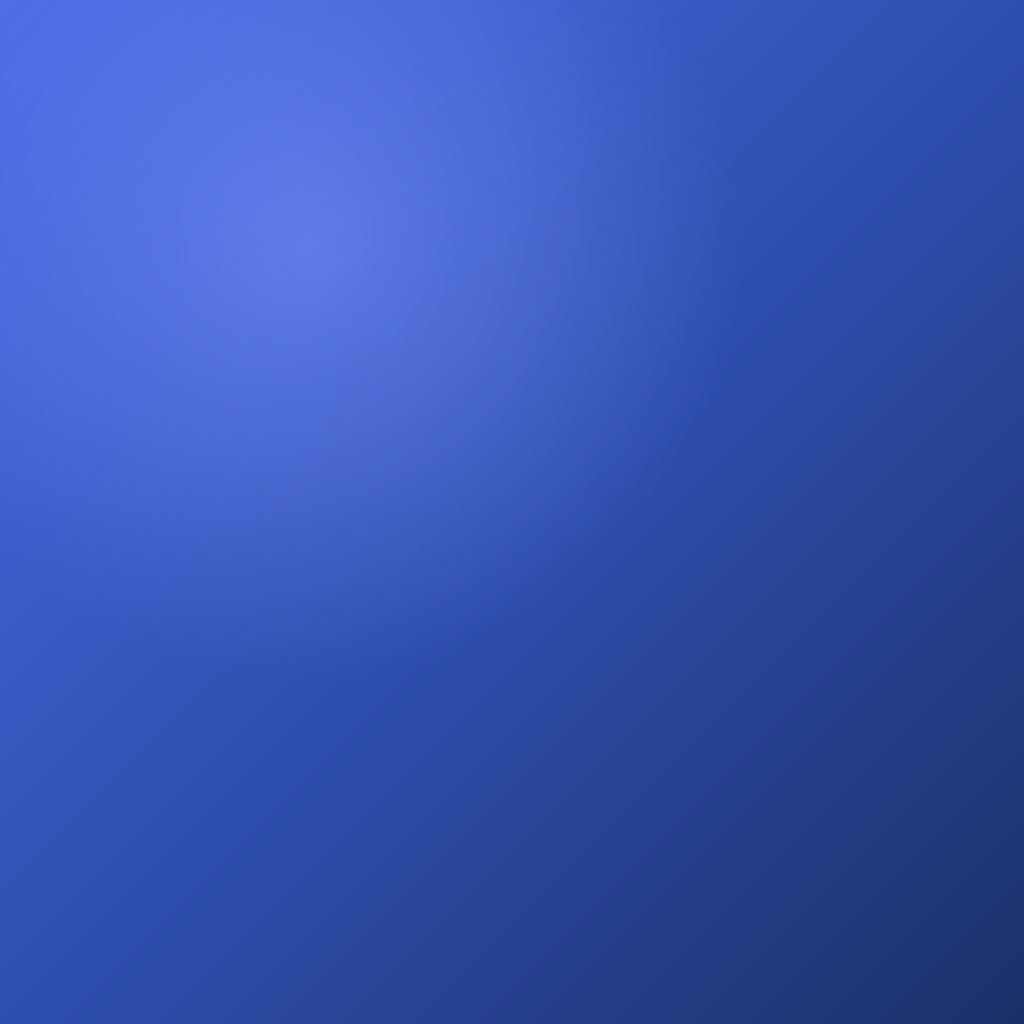
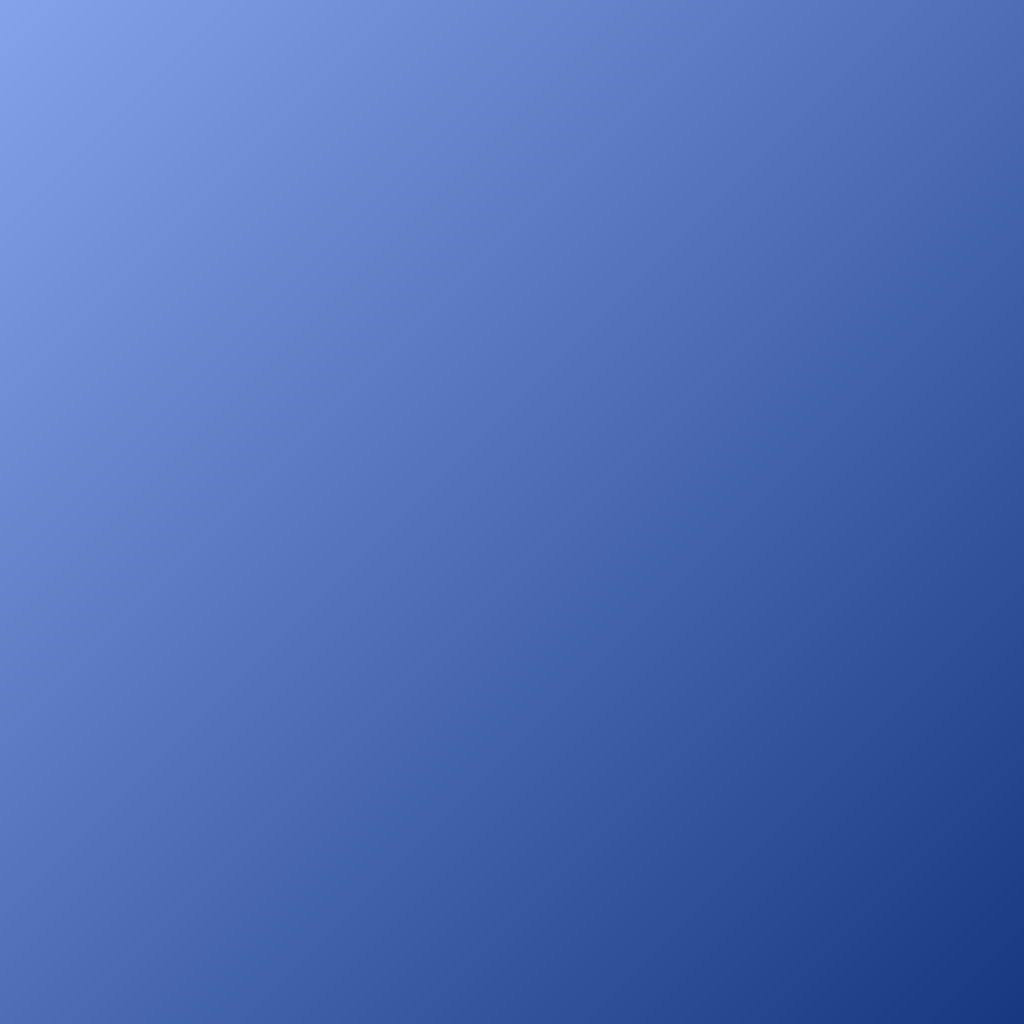
Channels: redesigned list rows; play voice posts via expo-av (fix silent audio)

diff --git a/src/screens/community/CommunityHomeScreen.tsx b/src/screens/community/CommunityHomeScreen.tsx
@@ -382,19 +382,38 @@ function ChannelRow({ channel, navigation }: { channel: Channel; navigation: Nav
   const joined = isJoined(channel.id);
   const count = unread(channel.id);
   const last = postsByChannel(channel.id)[0];
+  const subs = channel.baseSubscribers + (joined ? 1 : 0);
+  const subsLabel = `${String(subs).replace(/\B(?=(\d{3})+(?!\d))/g, ' ')} ${t('subscribers')}`;
+  const closed = channel.access === 'request';
+  // Second line: latest post for subscribers, otherwise the channel bio.
+  const secondary = joined && last ? last.title : (channel.bio?.trim() || '');
   return (
     <Pressable onPress={() => navigation.navigate('ServerChannel', { channelId: channel.id })}
-      style={{ flexDirection: 'row', alignItems: 'center', gap: 12, backgroundColor: T.cardBg, borderRadius: 16, padding: 12, marginBottom: 10, borderWidth: 0.5, borderColor: T.cardBorder }}>
-      <Image source={{ uri: channel.avatar }} style={{ width: 54, height: 54, borderRadius: 16, backgroundColor: T.brandTinted }} contentFit="cover" cachePolicy="memory-disk" />
-      <View style={{ flex: 1 }}>
+      style={({ pressed }) => ({ flexDirection: 'row', alignItems: 'center', gap: 14, backgroundColor: T.cardBg, borderRadius: 18, padding: 12, marginBottom: 10, borderWidth: 0.5, borderColor: T.cardBorder, shadowColor: '#000', shadowOpacity: 0.05, shadowRadius: 6, shadowOffset: { width: 0, height: 2 }, opacity: pressed ? 0.85 : 1 })}>
+      <View>
+        <Image source={{ uri: channel.avatar }} style={{ width: 56, height: 56, borderRadius: 18, backgroundColor: T.brandTinted }} contentFit="cover" cachePolicy="memory-disk" />
+        {closed ? (
+          <View style={{ position: 'absolute', right: -3, bottom: -3, width: 22, height: 22, borderRadius: 11, backgroundColor: T.cardBg, alignItems: 'center', justifyContent: 'center' }}>
+            <View style={{ width: 18, height: 18, borderRadius: 9, backgroundColor: T.labelTertiary, alignItems: 'center', justifyContent: 'center' }}>
+              <SF name="lock.fill" size={9} color="#fff" />
+            </View>
+          </View>
+        ) : null}
+      </View>
+      <View style={{ flex: 1, gap: 2 }}>
         <View style={{ flexDirection: 'row', alignItems: 'center', gap: 6 }}>
-          <Text style={[ty.headline, { color: T.label }]} numberOfLines={1}>{channel.name}</Text>
+          <Text style={[ty.headline, { color: T.label, flexShrink: 1 }]} numberOfLines={1}>{channel.name}</Text>
           {channel.verified ? <SF name="checkmark.seal.fill" size={14} color={T.sky} /> : null}
-          {channel.access === 'request' ? <SF name="lock.fill" size={11} color={T.labelTertiary} /> : null}
         </View>
-        <Text style={[ty.caption1, { color: T.labelSecondary, marginTop: 2 }]} numberOfLines={1}>
-          {joined && last ? last.title : channel.access === 'request' ? t('closed_channel') : `@${channel.handle}`}
-        </Text>
+        {secondary ? (
+          <Text style={[ty.subhead, { color: T.labelSecondary }]} numberOfLines={1}>{secondary}</Text>
+        ) : null}
+        <View style={{ flexDirection: 'row', alignItems: 'center', gap: 5, marginTop: 1 }}>
+          <SF name="person.2.fill" size={10} color={T.labelTertiary} />
+          <Text style={[ty.caption2, { color: T.labelTertiary }]} numberOfLines={1}>
+            {subsLabel}{closed ? ` · ${tr('Закрытый')}` : ''}
+          </Text>
+        </View>
       </View>
       {joined && count > 0 ? (
         <View style={{ minWidth: 22, height: 22, borderRadius: 11, paddingHorizontal: 6, backgroundColor: T.brand, alignItems: 'center', justifyContent: 'center' }}>
@@ -403,7 +422,9 @@ function ChannelRow({ channel, navigation }: { channel: Channel; navigation: Nav
       ) : joined ? (
         <SF name="checkmark.circle.fill" size={20} color={T.brand} />
       ) : (
-        <SF name="chevron.forward" size={14} color={T.labelTertiary} />
+        <View style={{ paddingVertical: 6, paddingHorizontal: 14, borderRadius: 999, backgroundColor: T.brandTinted }}>
+          <Text style={[ty.caption2Em, { color: T.brand }]}>{closed ? tr('Запрос') : tr('Открыть')}</Text>
+        </View>
       )}
     </Pressable>
   );

diff --git a/src/screens/community/ServerChannelScreen.tsx b/src/screens/community/ServerChannelScreen.tsx
@@ -3,8 +3,6 @@ import { useTheme } from '../../theme/ThemeContext';
 import { View, Text, Pressable, ScrollView, Modal, TextInput, Alert, ActivityIndicator, KeyboardAvoidingView, Platform, Share } from 'react-native';
 import { Image } from 'expo-image';
 import * as ImagePicker from 'expo-image-picker';
-import { useVideoPlayer } from 'expo-video';
-import { useEvent } from 'expo';
 import { Audio } from 'expo-av';
 import { NativeStackScreenProps } from '@react-navigation/native-stack';
 import { useSafeAreaInsets } from 'react-native-safe-area-context';
@@ -53,14 +51,15 @@ export function ServerChannelScreen({ route, navigation }: Props) {
   const [manageOpen, setManageOpen] = useState(false);
   const [requests, setRequests] = useState<ChannelRequest[]>([]);
 
-  const player = useVideoPlayer(null, (p) => { p.loop = false; });
+  // Play channel voice posts through expo-av (not expo-video): remote m4a from
+  // UploadThing plays reliably here and it shares the same audio session the
+  // recorder uses, so it isn't left muted after a recording.
+  const soundRef = useRef<Audio.Sound | null>(null);
   const [playingId, setPlayingId] = useState<string | null>(null);
-  // Reset the "Играет" indicator when a track finishes, so the next tap restarts
-  // it instead of getting stuck showing pause forever.
-  const endEvent = useEvent(player, 'playToEnd', null);
-  useEffect(() => { if (endEvent) setPlayingId(null); }, [endEvent]);
-  // Ensure voice posts play even with the iOS mute switch on.
-  useEffect(() => { Audio.setAudioModeAsync({ playsInSilentModeIOS: true }).catch(() => {}); }, []);
+  useEffect(() => {
+    Audio.setAudioModeAsync({ playsInSilentModeIOS: true, allowsRecordingIOS: false }).catch(() => {});
+    return () => { soundRef.current?.unloadAsync().catch(() => {}); soundRef.current = null; };
+  }, []);
 
   // Server-backed reactions: toggle on the backend, then patch the post in place
   // with the returned counts + the user's current reaction.
@@ -107,12 +106,19 @@ export function ServerChannelScreen({ route, navigation }: Props) {
     try { const token = await getToken(); const s = await joinChannel(token, id); if (s) setState(s); } finally { setBusy(false); }
   };
 
-  const playPost = (p: ServerChannelPost) => {
+  const playPost = async (p: ServerChannelPost) => {
     if (!p.audioUrl) return;
     try {
-      if (playingId === p.id) { player.pause(); setPlayingId(null); return; } // toggle off
-      player.replace(p.audioUrl); player.play(); setPlayingId(p.id);
-    } catch {}
+      if (playingId === p.id) { await soundRef.current?.pauseAsync().catch(() => {}); setPlayingId(null); return; } // toggle off
+      if (soundRef.current) { await soundRef.current.unloadAsync().catch(() => {}); soundRef.current = null; }
+      await Audio.setAudioModeAsync({ playsInSilentModeIOS: true, allowsRecordingIOS: false });
+      const { sound } = await Audio.Sound.createAsync({ uri: p.audioUrl }, { shouldPlay: true });
+      soundRef.current = sound;
+      setPlayingId(p.id);
+      sound.setOnPlaybackStatusUpdate((st) => {
+        if (st.isLoaded && st.didJustFinish) { setPlayingId(null); sound.unloadAsync().catch(() => {}); soundRef.current = null; }
+      });
+    } catch { setPlayingId(null); }
   };
 
   if (loading) {

diff --git a/src/state/useResume.ts b/src/state/useResume.ts
@@ -35,8 +35,12 @@ export function useResume() {
     loadJSON<ResumeAnswers>(KEY, {}).then((v) => {
       // prefill email/full name from Clerk if empty AND already available
       const email = user?.primaryEmailAddress?.emailAddress;
-      const name = user?.fullName;
-      setAnswers({ ...(email && !v.email ? { email } : {}), ...(name && !v.full_name ? { full_name: name } : {}), ...v });
+      setAnswers({
+        ...(email && !v.email ? { email } : {}),
+        ...(user?.firstName && !v.first_name ? { first_name: user.firstName } : {}),
+        ...(user?.lastName && !v.last_name ? { last_name: user.lastName } : {}),
+        ...v,
+      });
       setHydrated(true);
     });
   }, []);
@@ -47,11 +51,11 @@ export function useResume() {
   useEffect(() => {
     if (!hydrated || !user) return;
     const email = user.primaryEmailAddress?.emailAddress;
-    const name = user.fullName;
     setAnswers((p) => {
       const next = { ...p };
       if (email && !p.email) next.email = email;
-      if (name && !p.full_name) next.full_name = name;
+      if (user.firstName && !p.first_name) next.first_name = user.firstName;
+      if (user.lastName && !p.last_name) next.last_name = user.lastName;
       return next;
     });
   }, [hydrated, user]);
@@ -105,10 +109,21 @@ export function useResume() {
     setSubmitting(true);
     try {
       saveJSON(KEY, answers);
-      return await send(answers);
+      const ok = await send(answers);
+      // Mirror the name into Clerk so the greeting shows «Имя» and the profile
+      // shows «Имя Фамилия».
+      try {
+        const fn = typeof answers.first_name === 'string' ? answers.first_name.trim() : '';
+        const ln = typeof answers.last_name === 'string' ? answers.last_name.trim() : '';
+        const params: { firstName?: string; lastName?: string } = {};
+        if (fn) params.firstName = fn;
+        if (ln) params.lastName = ln;
+        if (user && Object.keys(params).length) await user.update(params);
+      } catch {}
+      return ok;
     } catch { saveJSON(PENDING, true); return false; }
     finally { setSubmitting(false); }
-  }, [answers, send]);
+  }, [answers, send, user]);
 
   // #4: if a previous submit failed, re-send once on mount (background, silent).
   const resentRef = useRef(false);

diff --git a/src/screens/career/ResumeFormScreen.tsx b/src/screens/career/ResumeFormScreen.tsx
@@ -26,8 +26,8 @@ export function ResumeFormScreen({ navigation, route }: Props) {
 
   const go = (n: number) => { LayoutAnimation.configureNext(LayoutAnimation.Presets.easeInEaseOut); setStep(n); };
 
-  // Don't allow submitting an empty resume — require at least the name.
-  const nameFilled = typeof answers.full_name === 'string' && answers.full_name.trim().length > 0;
+  // Don't allow submitting an empty resume — require at least name + surname.
+  const nameFilled = ['first_name', 'last_name'].every((k) => typeof answers[k] === 'string' && answers[k].trim().length > 0);
   // If an email is entered, it must be a valid address (the field is optional,
   // but an invalid value should never be saved).
   const emailRaw = typeof answers.email === 'string' ? answers.email.trim() : '';
@@ -37,7 +37,7 @@ export function ResumeFormScreen({ navigation, route }: Props) {
     if (!nameFilled) {
       Alert.alert(
         tr('Заполните анкету'),
-        tr('Укажите хотя бы ФИО, чтобы сохранить анкету.'),
+        tr('Укажите хотя бы имя и фамилию, чтобы сохранить анкету.'),
         [{ text: tr('Готово'), onPress: () => go(0) }],
       );
       return;

diff --git a/src/screens/IntroSplash.tsx b/src/screens/IntroSplash.tsx
@@ -78,11 +78,11 @@ export function IntroSplash({ fontsLoaded, onDone }: { fontsLoaded: boolean; onD
           <Logo size={logoSize} body={WHITE} head={WHITE} />
         </Animated.View>
 
-        <Animated.View style={{ opacity: wordOpacity, transform: [{ translateY: wordTranslate }], alignItems: 'center', maxWidth: width * 0.86 }}>
+        <Animated.View style={{ opacity: wordOpacity, transform: [{ translateY: wordTranslate }], alignItems: 'center', maxWidth: width * 0.92 }}>
           <Animated.Text style={styles.wordmark} numberOfLines={1} adjustsFontSizeToFit allowFontScaling={false}>
             Divergents
           </Animated.Text>
-          <Animated.Text style={styles.slogan} numberOfLines={1} allowFontScaling={false}>
+          <Animated.Text style={styles.slogan} numberOfLines={1} adjustsFontSizeToFit minimumFontScale={0.6} allowFontScaling={false}>
             {SLOGAN}
           </Animated.Text>
         </Animated.View>
@@ -110,7 +110,7 @@ const styles = StyleSheet.create({
     ...ty.caption1,
     color: 'rgba(255,255,255,0.62)',
     marginTop: 8,
-    letterSpacing: 2,
+    letterSpacing: 1.4,
     textTransform: 'uppercase',
     textAlign: 'center',
   },

diff --git a/src/data/talentslab.ts b/src/data/talentslab.ts
@@ -127,7 +127,14 @@ export async function fetchTalentProfile(token?: string | null, email?: string |
  * email fallback (only when an app key is configured). Never throws: returns
  * false when no auth path succeeds so the UI can stay responsive.
  */
-export async function submitResume(token: string | null | undefined, answers: ResumeAnswers, email?: string | null): Promise<boolean> {
+export async function submitResume(token: string | null | undefined, answersIn: ResumeAnswers, email?: string | null): Promise<boolean> {
+  // Compose full_name from parts (Фамилия Имя Отчество) so the Talentslab
+  // backend keeps receiving the single field while the UI collects them apart.
+  const answers: ResumeAnswers = { ...answersIn };
+  const parts = [answers.last_name, answers.first_name, answers.middle_name]
+    .map((x) => (typeof x === 'string' ? x.trim() : ''))
+    .filter(Boolean);
+  if (parts.length) answers.full_name = parts.join(' ');
   const post = async (headers: Record<string, string>, body: any) => {
     const ctrl = new AbortController();
     const t = setTimeout(() => ctrl.abort(), 15000);

diff --git a/src/data/resumeSchema.ts b/src/data/resumeSchema.ts
@@ -24,7 +24,9 @@ export const RESUME_STEPS: ResumeStep[] = [
   {
     key: 'personal', title: 'Личные данные', icon: 'person.fill',
     fields: [
-      { key: 'full_name', label: 'ФИО', type: 'text', placeholder: 'Фамилия Имя Отчество' },
+      { key: 'last_name', label: 'Фамилия', type: 'text', placeholder: 'Фамилия' },
+      { key: 'first_name', label: 'Имя', type: 'text', placeholder: 'Имя' },
+      { key: 'middle_name', label: 'Отчество', type: 'text', placeholder: 'Отчество (если есть)', optional: true },
       { key: 'email', label: 'Email', type: 'text', placeholder: 'you@example.com' },
       { key: 'phone', label: 'Телефон', type: 'text', placeholder: '+7 700 000 00 00' },
       { key: 'gender', label: 'Пол', type: 'select', options: ['Мужской', 'Женский'] },

diff --git a/src/components/ChallengeTaskRow.tsx b/src/components/ChallengeTaskRow.tsx
@@ -57,7 +57,7 @@ export function ChallengeTaskRow({
         </View>
         <View style={{ flexDirection: 'row', justifyContent: 'space-between', marginTop: 4, alignItems: 'center' }}>
           <Text style={[ty.caption1, { color: T.labelSecondary }]}>
-            <Text style={{ color: over ? T.green : T.label, fontWeight: '600' }}>{fmt(task.current)}</Text>
+            <Text style={{ color: over ? T.green : T.label, fontFamily: ty.caption2.fontFamily }}>{fmt(task.current)}</Text>
             {` / ${fmt(task.min)} ${task.unit}`}
           </Text>
           {over ? <Text style={[ty.caption1, { color: T.green }]}>{`+${fmt(task.current - task.min)} ${task.unit} · +${bonus} pts`}</Text> : null}

diff --git a/src/screens/ai/AIChatScreen.tsx b/src/screens/ai/AIChatScreen.tsx
@@ -207,7 +207,7 @@ export function AIChatScreen({}: Props) {
           />
         </View>
       ) : (
-      <KeyboardAvoidingView style={{ flex: 1 }} behavior={Platform.OS === 'ios' ? 'padding' : undefined} keyboardVerticalOffset={insets.top + 8}>
+      <KeyboardAvoidingView style={{ flex: 1 }} behavior={Platform.OS === 'ios' ? 'padding' : undefined} keyboardVerticalOffset={0}>
         <ScrollView ref={scrollRef} style={{ flex: 1 }} contentContainerStyle={{ padding: 16, paddingBottom: 8 }} keyboardDismissMode="interactive">
           {messages.length === 0 ? (
             <View style={{ alignItems: 'center', paddingTop: 28 }}>

diff --git a/src/navigation/index.tsx b/src/navigation/index.tsx
@@ -164,7 +164,7 @@ export function RootNavigator() {
       ) : (
         <>
           <Root.Screen name="Tabs" component={Tabs} />
-          <Root.Screen name="Notifications" component={NotificationsScreen} options={{ presentation: 'modal' }} />
+          <Root.Screen name="Notifications" component={NotificationsScreen} options={{ presentation: 'fullScreenModal' }} />
         </>
       )}
     </Root.Navigator>
